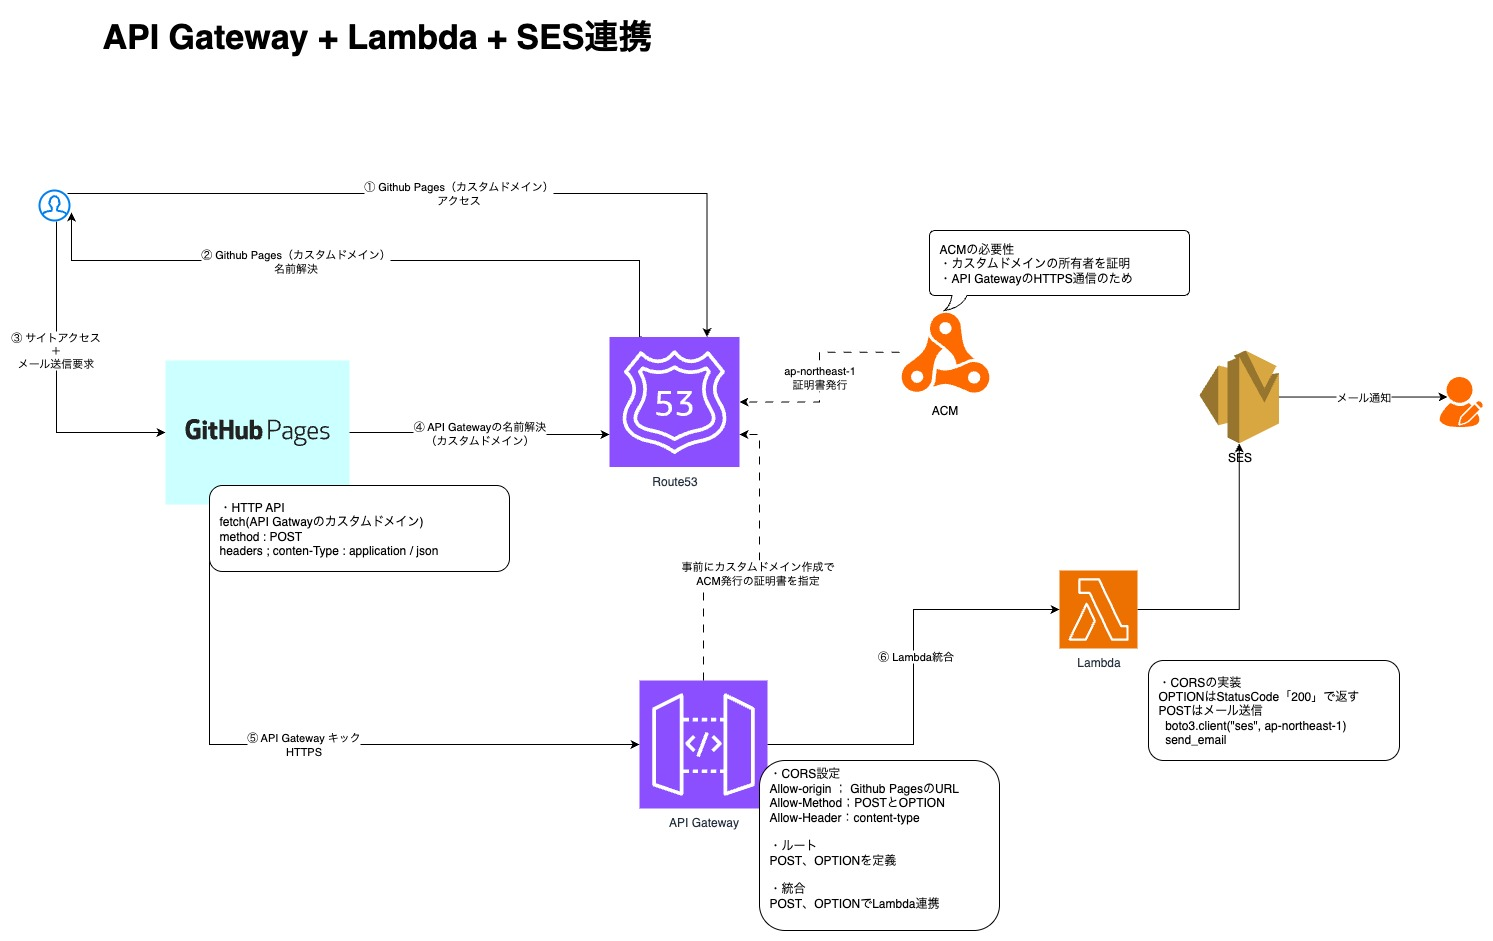
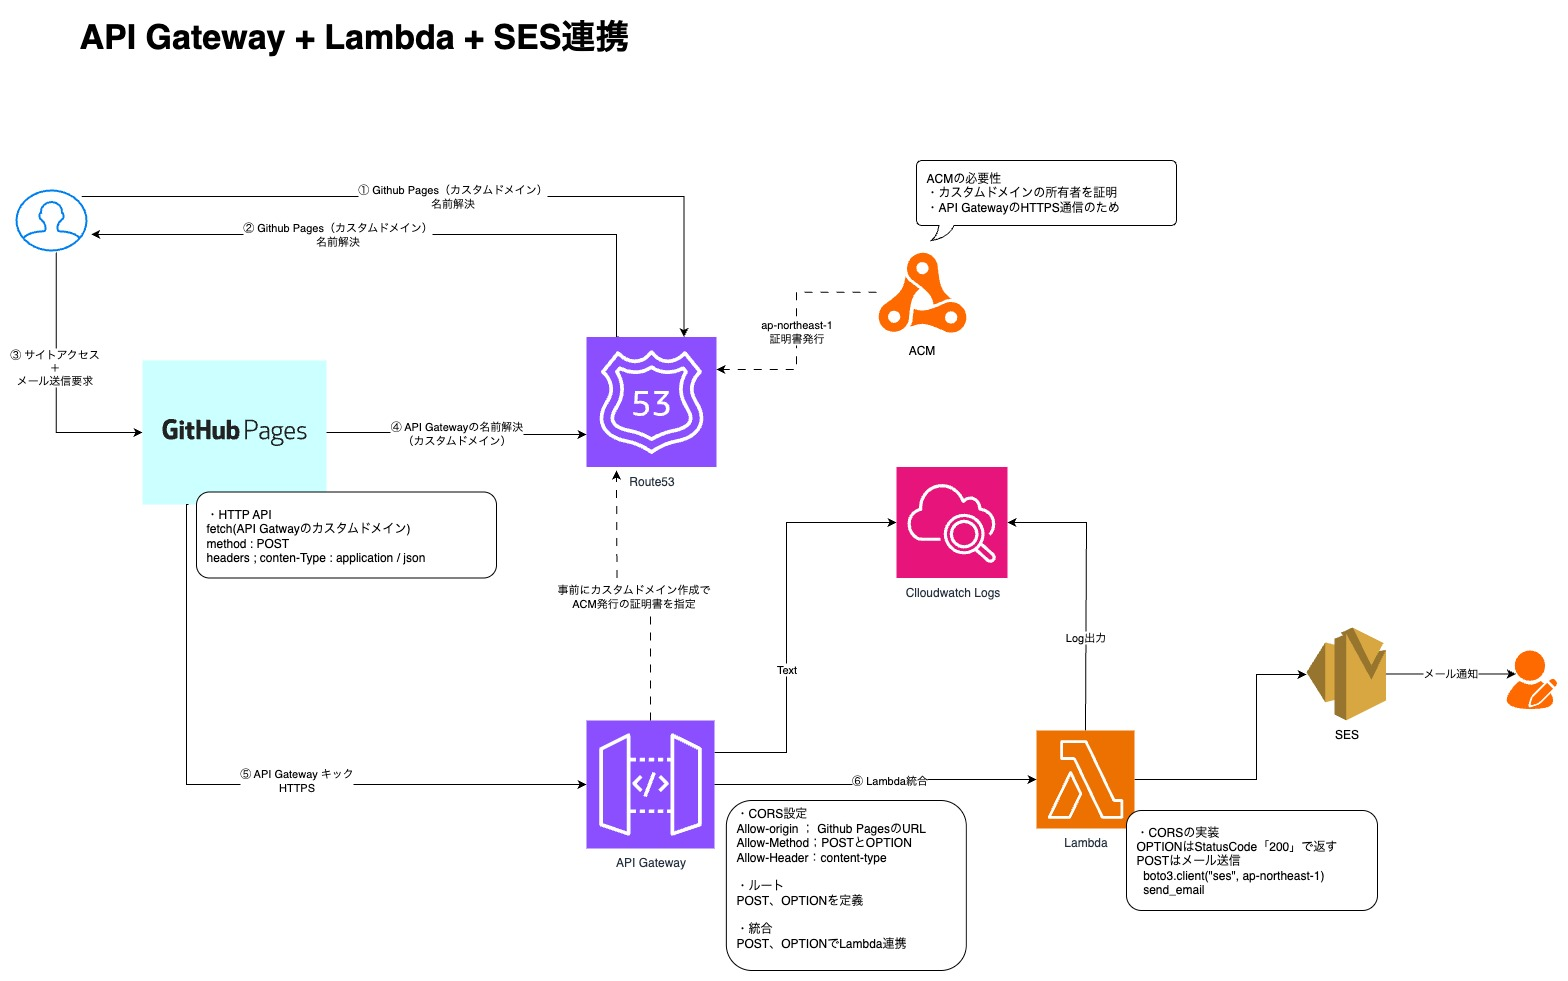
update lambda description

diff --git a/docs/projects/aws-lambda-ses.md b/docs/projects/aws-lambda-ses.md
@@ -2,7 +2,7 @@
 layout: default
 ---
 
-# GitHub Pages × API Gateway × Lambda 構成ポートフォリオ
+# GitHub Pages × API Gateway × Lambda
 
 このプロジェクトは、GitHub Pages でホストされたフロントエンドから、AWS API Gateway（HTTP API）を通じて Lambda 関数を呼び出す構成です。すべての通信はカスタムドメインを使用し、HTTPS証明書は ACM によって管理されています。
 
@@ -19,6 +19,7 @@ layout: default
 | フロントエンド | GitHub Pages                | カスタムドメイン設定済み             |
 | バックエンド   | AWS API Gateway（HTTP API） | Lambda統合                           |
 | 実行処理       | AWS Lambda                  | IAMロールで権限管理                  |
+| ログ管理       | Amazon CloudWatch Logs      | Lambdaの実行ログを出力・監視         |
 | ドメイン管理   | Route53                     | CNAMEレコードでドメイン紐づけ        |
 | 証明書管理     | AWS ACM（ap-northeast-1）   | DNS検証で証明書発行                  |
 | 認証           | DNS検証（CNAME）            | ACMが提示するレコードをRoute53に登録 |
@@ -35,6 +36,7 @@ layout: default
 2. **Lambda関数作成**
    - 実行ロールを紐づけ
    - API Gatewayから呼び出す処理を実装
+   - CloudWatch Logsへの出力を有効化（`console.log()` などでログ記録）
 
 3. **Route53ホストゾーン確認**
    - `example.com` のホストゾーンが存在することを確認
